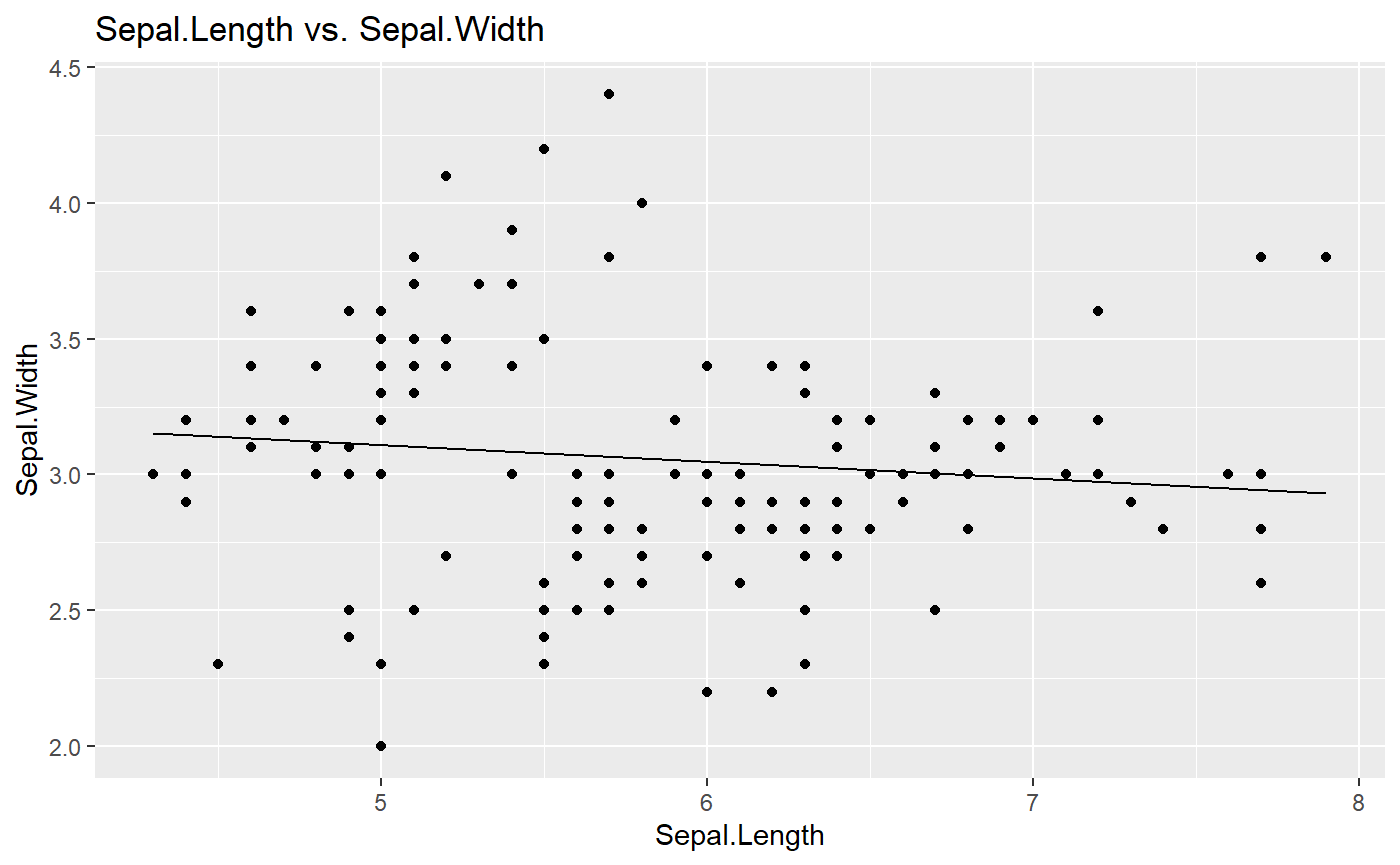
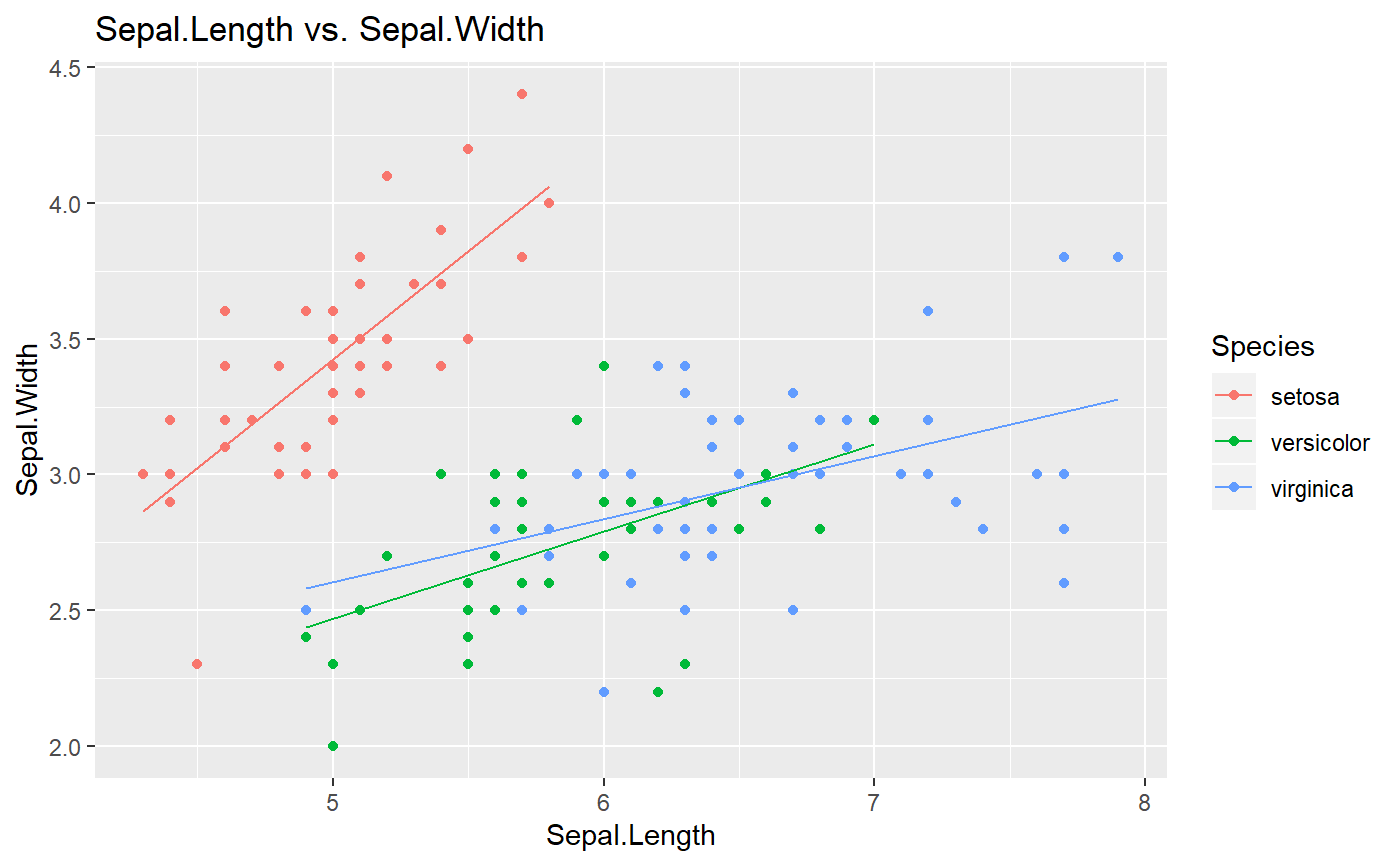
Update ggLinearModel.Rmd

diff --git a/ggLinearModel/docs/articles/ggLinearModel.html b/ggLinearModel/docs/articles/ggLinearModel.html
@@ -101,7 +101,7 @@
 <span id="cb1-2"><a href="#cb1-2"></a><span class="st">    </span><span class="kw">geom_point</span>() <span class="op">+</span></span>
 <span id="cb1-3"><a href="#cb1-3"></a><span class="st">    </span><span class="kw">geom_smooth</span>(<span class="dt">method =</span> lm, <span class="dt">se =</span> <span class="ot">FALSE</span>)</span></code></pre></div>
 <p><img src="ggLinearModel_files/figure-html/unnamed-chunk-1-1.png" width="700"></p>
-<div class="sourceCode" id="cb2"><pre class="sourceCode r"><code class="sourceCode r"><span id="cb2-1"><a href="#cb2-1"></a><span class="kw"><a href="../reference/ggLinearModel.html">ggLinearModel</a></span>(iris, Sepal.Length, Sepal.Width)</span></code></pre></div>
+<div class="sourceCode" id="cb2"><pre class="sourceCode r"><code class="sourceCode r"><span id="cb2-1"><a href="#cb2-1"></a><span class="kw"><a href="../reference/ggLinearModel.html">ggLinearModel</a></span>(iris, Sepal.Length, Sepal.Width, Species)</span></code></pre></div>
 <p><img src="ggLinearModel_files/figure-html/unnamed-chunk-1-2.png" width="700"></p>
 </div>
 <div id="same-slope-model" class="section level3">
